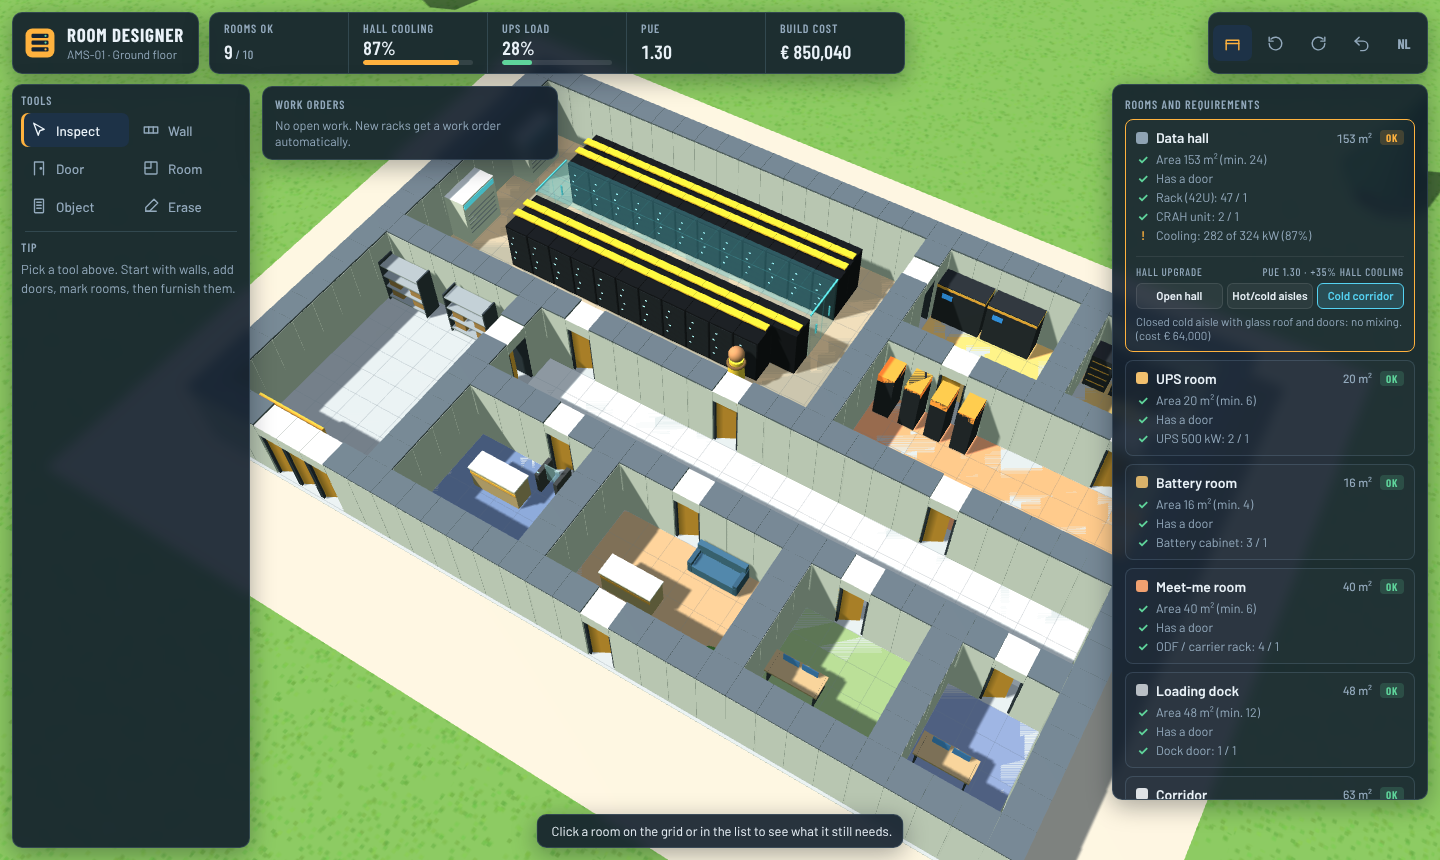
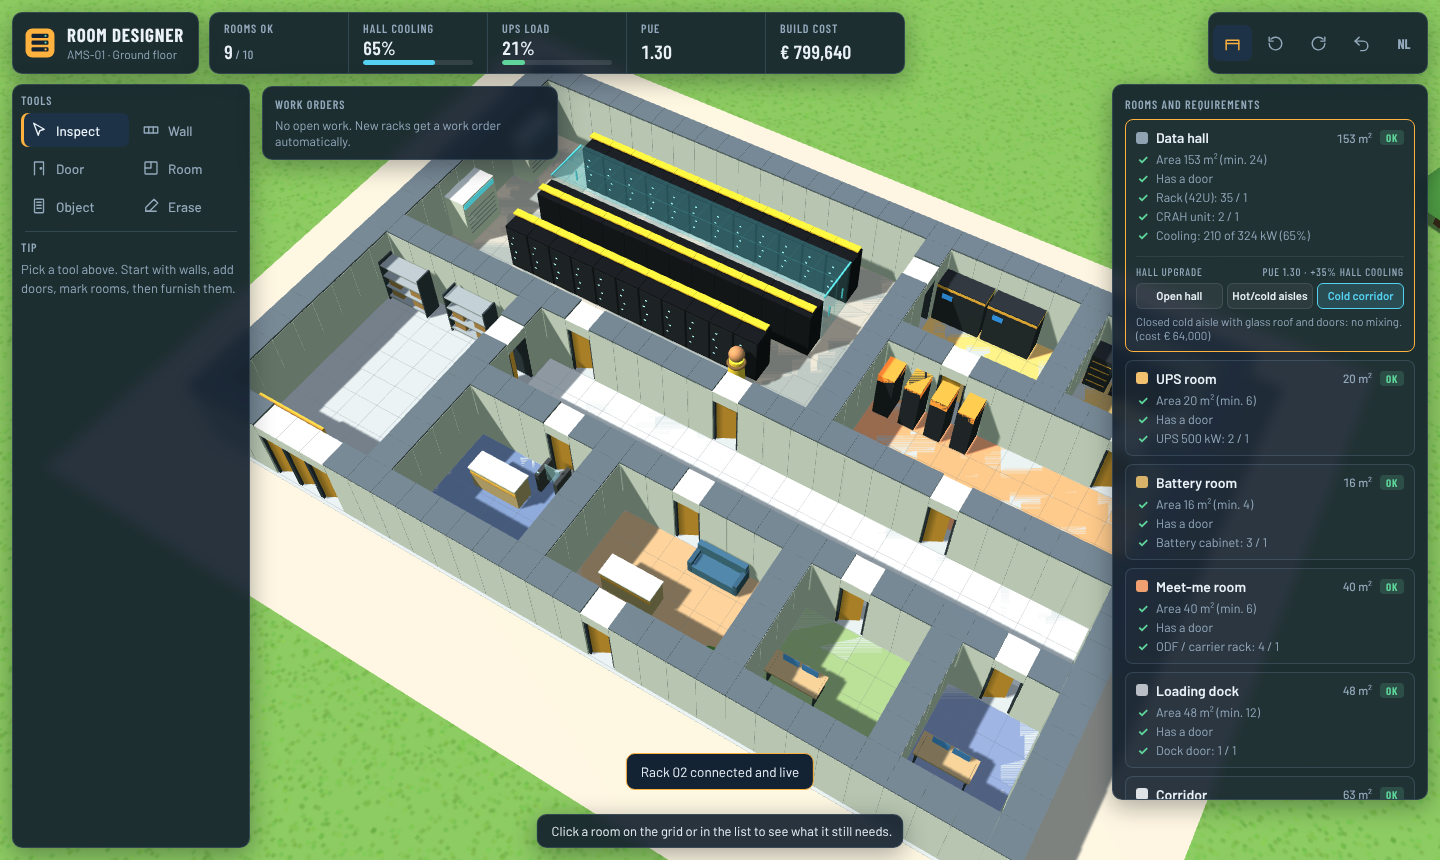
Rack rows with hot and cold aisles between them
Claude-Session: https://claude.ai/code/session_01CnJtxK4fucR7Roce3eEarF

diff --git a/docs/concept/room-designer-v1.html b/docs/concept/room-designer-v1.html
@@ -238,7 +238,8 @@ function example() {
   fillRoom(20, 7, 29, 10, "mmr"); fillRoom(2, 12, 7, 19, "dock"); fillRoom(9, 12, 29, 14, "corridor");
   fillRoom(9, 16, 13, 19, "security"); fillRoom(15, 16, 20, 19, "reception"); fillRoom(22, 16, 25, 19, "customer"); fillRoom(27, 16, 29, 19, "noc");
   // data hall: racks + CRAH (cooling deliberately tight)
-  for (const z of [3, 4, 7, 8]) for (let i = 5; i <= 16; i++) if (!(z === 8 && i > 13)) addObj("rack", i, z, (z === 3 || z === 7) ? 2 : 0);
+  // rows with aisles: hot aisle z2 | row A (front +z) | cold aisle z4-5 | row B (front -z) | hot aisle z7 | row C (front +z) | cold aisle z9-10
+  for (const [z, rot] of [[3, 0], [6, 2], [8, 0]]) for (let i = 5; i <= 16; i++) if (!(z === 8 && i > 13)) addObj("rack", i, z, rot);
   for (const i of [14, 15]) objects.push({ type: "rack", i, j: 8, rot: 0, st: 0, p: 0, n: ++rackSeq });
   addObj("crah", 2, 3, 0); addObj("crah", 2, 7, 0);
   addObj("ups", 20, 2, 0); addObj("ups", 22, 2, 0);

diff --git a/docs/game-design.md b/docs/game-design.md
@@ -75,7 +75,8 @@ Elke locatie toont vooraf de **beschikbare netcapaciteit (MVA)** en de **glasvez
 
 - **Koelmachines** buiten en **CRAH-units** in de zalen, elk met een capaciteit in kW.
 - Elke rack produceert warmte, afhankelijk van de klant. De koelbalk toont de belasting tegenover de capaciteit.
-- Racks staan **aaneengesloten in rijen**, zonder ruimte ertussen. Je plaatst ze rij voor rij (slepen), en twee rijen staan rug aan rug of met de voorkanten naar elkaar.
+- Racks staan **aaneengesloten in rijen**, zonder ruimte tussen de racks in een rij. Je plaatst ze rij voor rij (slepen).
+- **Tussen de rijen zit altijd een gang.** Aan de voorkant is dat de koude gang, aan de achterkant de warme gang. Engineers moeten bij de achterkant van de servers kunnen, dus een rij zonder vrije gang erachter geeft een waarschuwing.
 - **Zaal-upgrades:** een datazaal kun je upgraden in stappen. Elke stap kost geld en bouwtijd, verhoogt de effectieve koelcapaciteit en verlaagt het energieverbruik (PUE):
 
 | Niveau | Wat je bouwt | Koeling | PUE |
